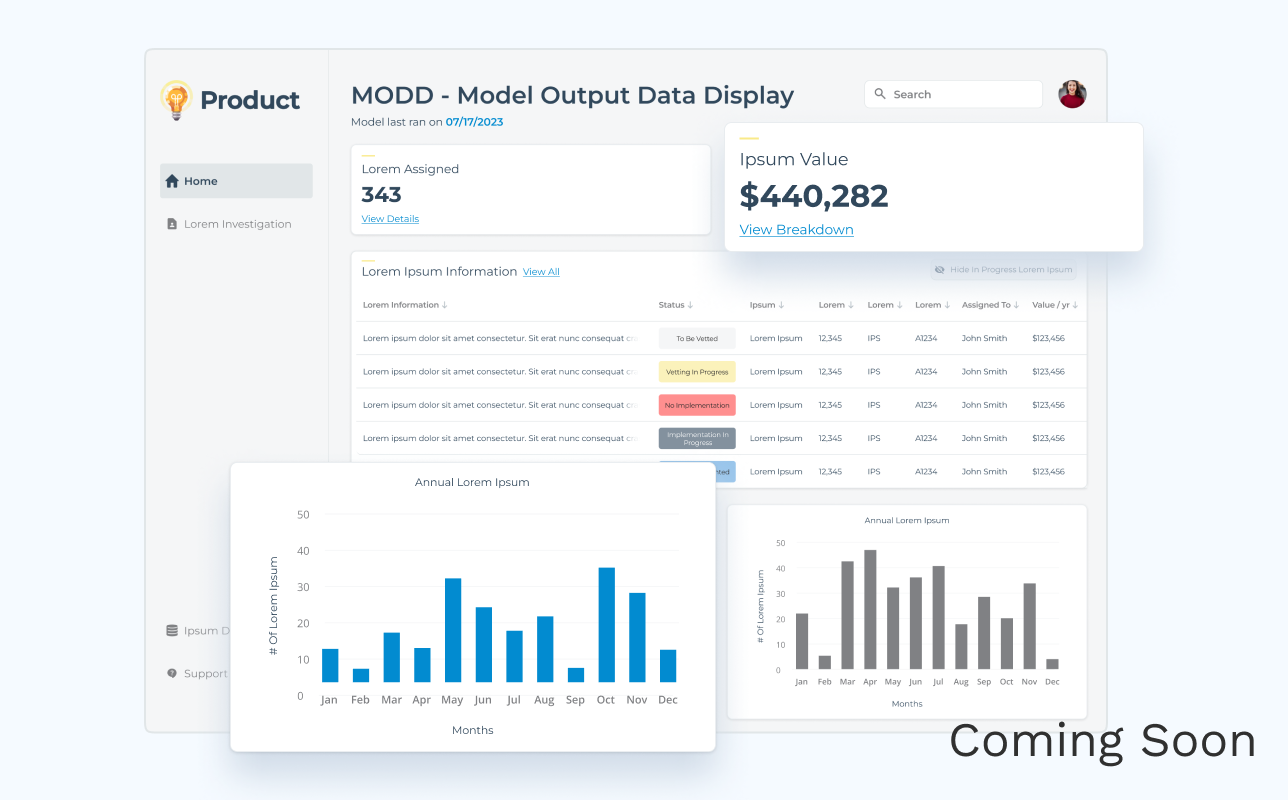
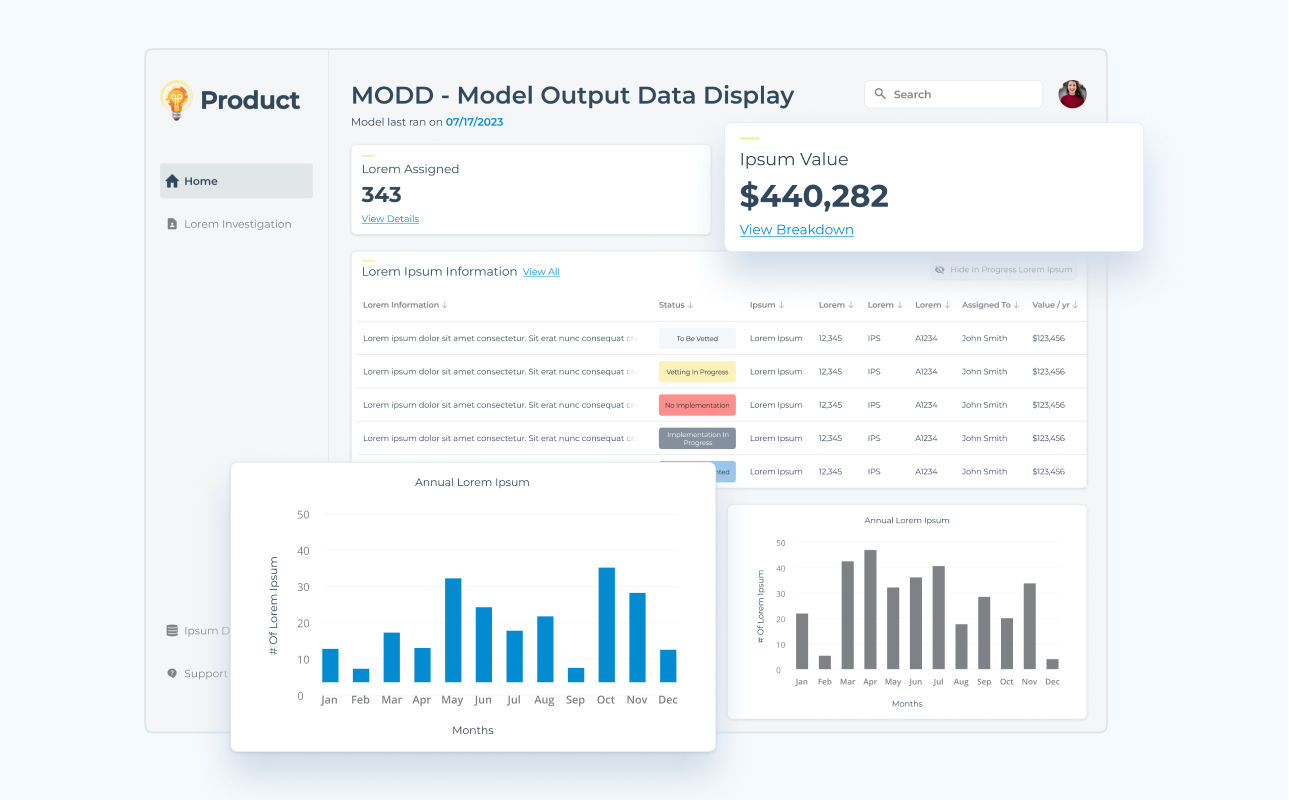
west monroe dental

diff --git a/westmonroe-dental.html b/westmonroe-dental.html
@@ -7,7 +7,7 @@
         <meta name="title" content="Eddy Peng">
         <meta name="description" content="The website portfolio of a product designer, storyteller, and self-proclaimed art historian named Eddy Peng.">
         <meta name="keywords" content="Eddy, Peng, Designer, Userexperience, Productdesign, Eddypeng">
-        <title>Eddy Peng - Ziggurat</title>
+        <title>Eddy Peng - Dental Client</title>
         <link rel="shortcut icon" href="img/universal/favIcon.ico" type="image/x-icon">
 
         <!-- load style sheets -->
@@ -101,20 +101,23 @@
     </header>
     
     <body>
-        <img src="./img/zivolve/zivolveFullCover.png" class="portImg cover fadeIn">
+        <img src="./img/westmonroedental/westmonroedentalFullCover.png" class="portImg cover fadeIn">
         <div class="title fadeIn" id="caseTitle">
-            <h1>Zivolve By Ziggurat</h1>
+            <h1>Dental Service Provider</h1>
         </div>
         <div class="telePoints fadeIn">
             <p>Chapters:</p>
             <ul>
-                <a href="#whyZ"><li>Why Zivolve</li></a>
-                <a href="#process"><li>Process</li></a>
-                <a href="#role"><li>My Role</li></a>
+                <a href="#westmonroe"><li>West Monroe</li></a>
+                <a href="#projectcontext"><li>Project Context</li></a>
+                <a href="#success"><li>Success</li></a>
+                <a href="#team+role"><li>Team + Role</li></a>
+                <a href="#initialidea"><li>Initial Idea</li></a>
                 <a href="#challenge"><li>Challenge</li></a>
-                <a href="#impact"><li>Impact</li></a>
-                <a href="#reflect"><li>Reflection</li></a>
-                <a href="#nda"><li>NDA</li></a>
+                <a href="#newdeliverable"><li>New Deliverable</li></a>
+                <a href="#onedesigner"><li>One Designer</li></a>
+                <a href="#outcome"><li>Outcome</li></a>
+                <a href="#reflections"><li>Reflections</li></a>
             </ul>
         </div>
 
@@ -123,19 +126,19 @@
                 <div>
                     <h1>Context</h1>
                     <ul>
-                        <li>Interaction Designer</li>
+                        <li>Product Designer</li>
                         <li>Internship</li>
-                        <li>Mobile App</li>
+                        <li>Team Of 7</li>
                         <li>NDA</li>
                     </ul>
                 </div>
                 <div>
                     <h2>Overview</h2>
                     <p>
-                        I interned at Ziggurat and worked on their Zivolve investment app. I absorbed unfamiliar financial concepts quickly and followed a design system.
+                        In addition to my energy project at West Monroe, I was on a second project that taught me the impact of auto-layout and remaining flexible for rapid change.
                     </p>
                     <p class="caseLink">
-                        <a class="underlinedLink" href="https://zivolve.com/" target="_blank">www.zivolve.com</a>
+                        <a class="underlinedLink" href="https://westmonroe.com/" target="_blank">westmonroe.com</a>
                     </p>
                 </div>
                 <div>
@@ -147,61 +150,107 @@
                 <div>
                     <h2>Duration</h2>
                     <p>
-                        May - Jul 2022 (3 Months)
+                        July 2023 (4 Weeks)
                     </p>
                 </div>
             </div>
-            <div class="sec" id="whyZ">
-                <h2>Why Zivolve?</h2>
-                <h1>Hedge funds get rich, while 95% of market traders lose $$$.</h1>
+            <div class="sec" id="westmonroe">
+                <h2>West Monroe</h2>
+                <h1>West Monroe is a consulting and digital services firm.</h1>
                 <p>
-                    Due to experience and technology gaps, the playing field heavily favors hedge funds and corporations over individuals. Zivolve levels the playing field by using AI to suggest decisions based on market trends.
+                    In the summer of 2023, I interned at West Monroe, a digital services firm that serves many clients. I specifically worked within the Product Experience & Engineering Lab team. Due to NDA purposes, some screenshots and content have been changed and blurred to keep the client confidential.
                 </p>
-                <img src="./img/zivolve/stockDown.png" class="portImg"/>
+                <img src="./img/westmonroeenergy/westmonroeseattle.png" class="portImg">
             </div>
-            <div class="sec" id="process">
-                <h2>The Process</h2>
-                <h1>Every design task followed a 6-stage process.</h1>
-                <img src="./img/zivolve/process.png" class="portImg"/>
-            </div>
-            <div class="sec" id="role">
-                <h2>My Role</h2>
-                <h1>Designed features and focused on the design system and user flows.</h1>
+            <div class="sec" id="projectcontext">
+                <h2>Project Context</h2>
+                <h1>
+                    A West Monroe team must display data visually for a dental service provider (5,000+ employees).
+                </h1>
                 <p>
-                    I collaborated with a fellow intern on many high-fidelity designs across the product. However, I took a prominent role in ensuring that the screens my co-intern and I create adhere to the design system and preparing the user flows to present during the next team meeting.
+                    A machine learning, healthcare, data science, and technology consultant team has been working on a data model that processes claims more accurately for the client. They need to display their findings in a visually appealing way.
                 </p>
-                <img src="./img/zivolve/userflowSample.png" class="portImg"/>
+                <img src="./img/westmonroedental/dentist.png" class="portImg">
+            </div>
+            <div class="sec" id="success">
+                <h2>Success</h2>
+                <h1>
+                    I must deliver the design before the deadline.
+                </h1>
+                <p>
+                    The design needs to be delivered to the consultants by the end of the 4-week design phase because soon after the deadline, the team will present the work to the client’s VP, CTO, and CFO.
+                </p>
+            </div>
+            <div class="sec" id="team+role">
+                <h2>Team + Role</h2>
+                <h1>
+                    I collaborated with another designer on designs for 5 consultants.
+                </h1>
+                <p>
+                    In addition to the 5 consultants who would serve as our primary stakeholders, I collaborated with a more experienced product designer. We bounced ideas off each other and worked on the designs from start to finish. 
+                </p>
+                <img src="./img/westmonroedental/dentalTeam.png" class="portImg">
+            </div>
+            <div class="sec" id="initialidea">
+                <h2>Initial Idea</h2>
+                <h1>
+                    The team felt an interactive document would enhance their upcoming presentation.
+                </h1>
+                <p>
+                    This document would be in the form of a Figma prototype. The deliverable will allow the user to reveal and manipulate data through thoughtful animations, keeping the viewer engaged. Additionally, the document could also be presentable when printed on paper.
+                </p>
+                <img src="./img/westmonroedental/proposedDeliverable.png" class="portImg">
             </div>
             <div class="sec" id="challenge">
-                <h2>The Challenge</h2>
-                <h1>Rapid concept comprehension.</h1>
+                <h2>Challenge</h2>
+                <h1>
+                    Two weeks into the project, the deliverable pivoted into a prototype. 
+                </h1>
                 <p>
-                    On top of learning essential investment fundamentals and concepts on the fly, I applied design thinking, followed design system guidelines, and ensured the best UI practices for my work. When I had knowledge gaps, I asked for clarification. Not doing so would increase the likelihood of a faulty design.
+                    The consultant team notified my partner and me that plans had changed. It meant we would start from square one with just 2 more weeks before the deadline. Additionally, model data continued to be unavailable. So, placeholder text and guessing had to be used to counter the vagueness.
                 </p>
             </div>
-            <div class="sec" id="impact">
-                <h2>Impact</h2>
-                <h1>Trusted in designing essential features.</h1>
-                <p>
-                    My co-intern and I designed many features essential to the product’s success. Most screens are still in the agile development process and will be live in the upcoming 5 product versions.
+            <div class="sec" id="newdeliverable">
+                <h2>New Deliverable</h2>
+                <h1>
+                    We created a dashboard that conveyed the consultant team’s data model output.
+                </h1>
+                <p class="spaceBelow">
+                    The process involved creating placeholder widgets on the screen and waiting until the consultant team handed me and my partner data from the model. Once we had some data in our hands, we moved elements around and bounced ideas off one another while catering to the consultant team’s recommendations, critiques, and changes in content.
                 </p>
-                <img src="./img/zivolve/results.png" class="portImg"/>
+                <img src="./img/westmonroedental/homeDesign.png" class="portImg spaceBelow">
+                <img src="./img/westmonroedental/ipsumDetails.png" class="portImg spaceBelow">
+                <img src="./img/westmonroedental/modelDetails.png" class="portImg spaceBelow">
             </div>
-            <div class="sec" id="reflect">
+            <div class="sec" id="onedesigner">
+                <h2>One Designer</h2>
+                <h1>
+                    My partner went on PTO, making me the sole designer in implementing and responding to team feedback.
+                </h1>
+                <p>
+                    Nearing the last week, I became the only designer in charge, and for the next 4 days, I adjusted and modified the current design as additional data came in. In the end, I had addressed 25+ critiques and recommendations from the team.
+                </p>
+                <img src="./img/westmonroedental/substitute.png" class="portImg">
+            </div>
+            <div class="sec" id="outcome">
+                <h2>Outcome</h2>
+                <h1>
+                    The designs allowed the consultant team to impress the client, scoring a contract renewal for the firm. 
+                </h1>
+                <p>
+                    We delivered the designs with days to spare for the team to make any last-minute changes to the numbers before their presentation to the client’s Vice President, CFO, and CTO. Between the visuals and the team’s excellent insights, the firm scored a contract renewal. Our designs will live on in the form of a Powerbi dashboard.
+                </p>
+            </div>
+            <div class="sec" id="reflections">
                 <h2>Reflections</h2>
-                <h1>Simplifying complexities is significant in UX.</h1>
+                <h1>
+                    I learned the power of auto-layout in a fast-paced team setting.
+                </h1>
                 <p>
-                    Before starting my internship, I had limited knowledge of asset trading. However, I understood critical concepts by conducting research and receiving guidance from the team.
+                    This project taught me the importance of letting go of my work and adapting to unforeseen changes. In a setting where design is fluid, auto-layout has proven time and again to be instrumental in making design more manageable by allowing me to make changes to the content quickly.
                 </p>
                 <p>
-                    It made me realize that understanding complexities is something few people can fit into their schedules. Making the complex understandable is critical in designing people-focused interfaces.
-                </p>
-            </div>
-            <div class="sec" id="nda">
-                <h2>NDA</h2>
-                <h1>Want to know more? Let’s chat!</h1>
-                <p>
-                    Only screens live in the app are shown (the screens in the thumbnail). To learn more about my experience, feel free to reach out!
+                    I am glad I upskilled myself on Figma’s auto-layout over a weekend early in the project when I realized my experience with the feature was not up to standards and may slow down the project. If I had not done that, I would not have been able to take on my partner’s side of the work for a brief time.
                 </p>
             </div>
         </div>
@@ -209,9 +258,9 @@
     <footer class="projectFooter">
 
         <div class="otherProject">
-            <a href="./westmonroe-dental.html">
-                <h1 class="shrink nextHover">Dental Service Provider ➢
-                    <img src="./img/universal/westmonroedentalRawCover.png"/>
+            <a href="./westmonroe-energy.html">
+                <h1 class="shrink nextHover">Regional Energy Provider ➢
+                    <img src="./img/universal/westmonroeenergyRawCover.png"/>
                 </h1>
             </a>
         </div>

diff --git a/allProjects.html b/allProjects.html
@@ -150,6 +150,20 @@
                 </div>
             </a>
 
+            <!-- west monroe healthcare card -->
+            <a href="./westmonroe-dental.html">
+                <div class="card shrink fadeIn">
+                    <div class="imgContain">
+                        <img src="img/universal/westmonroedentalRawCover.png" alt="west monroe dental cover image">
+                    </div>
+                    <div class="container animated animatedFadeInUp fadeInUp">
+                        <p class="quickFacts">Internship · Product Designer · Jun - Aug 2023</p>
+                        <p class="cardTitle">West Monroe - Dental Client</p>
+                        <p class="cardDes">Adapting to instantaneous pivots while designing a data model output for a dental service client</p>
+                    </div>
+                </div>
+            </a>
+
             <!-- candy card -->
             <a href="./candy.html">
                 <div class="card shrink fadeIn">
@@ -188,22 +202,6 @@
                         <p class="quickFacts">Conceptual · UI Designer · Dec 2022 - Present</p>
                         <p class="cardTitle">User Interface Shots - A Collection</p>
                         <p class="cardDes">Enhancing my UI design and presentation skills by creating visually appealing snapshots</p>
-                    </div>
-                </div>
-            </a>
-
-            <!-- west monroe healthcare card -->
-            <!-- add back in a shrink class and remove comingSoon class and put in correct content after dash -->
-            <!-- remove the "coming soon" text by switching the raw cover image -->
-            <a href="#" class="comingSoon">
-                <div class="card fadeIn">
-                    <div class="imgContain">
-                        <img src="img/universal/westmonroedentalRawCover.png" alt="west monroe dental cover image">
-                    </div>
-                    <div class="container animated animatedFadeInUp fadeInUp">
-                        <p class="quickFacts">Internship · Product Designer · Jun - Jul 2023</p>
-                        <p class="cardTitle">West Monroe - Dental Client</p>
-                        <p class="cardDes">Adapting to instantaneous pivots while designing a data model output for a dental service client</p>
                     </div>
                 </div>
             </a>

diff --git a/westmonroe-energy.html b/westmonroe-energy.html
@@ -7,7 +7,7 @@
         <meta name="title" content="Eddy Peng">
         <meta name="description" content="The website portfolio of a product designer, storyteller, and self-proclaimed art historian named Eddy Peng.">
         <meta name="keywords" content="Eddy, Peng, Designer, Userexperience, Productdesign, Eddypeng">
-        <title>Eddy Peng - Energy Provider</title>
+        <title>Eddy Peng - Energy Client</title>
         <link rel="shortcut icon" href="img/universal/favIcon.ico" type="image/x-icon">
 
         <!-- load style sheets -->
@@ -158,7 +158,7 @@
                 <h2>West Monroe</h2>
                 <h1>West Monroe is a consulting and digital services firm.</h1>
                 <p>
-                    In the summer of 2023, I interned at West Monroe, a digital services firm that serves many clients. I specifically worked within the Product Experience & Engineering Lab team for a utility client. Due to NDA purposes, some screenshots and content have been changed and blurred to keep the client confidential.
+                    In the summer of 2023, I interned at West Monroe, a digital services firm that serves many clients. I specifically worked within the Product Experience & Engineering Lab team. Due to NDA purposes, some screenshots and content have been changed and blurred to keep the client confidential.
                 </p>
                 <img src="./img/westmonroeenergy/westmonroeseattle.png" class="portImg">
             </div>

diff --git a/index.html b/index.html
@@ -159,15 +159,13 @@
             </a>
 
             <!-- west monroe healthcare card -->
-            <!-- add back in a shrink class and remove comingSoon class and put in correct content after dash -->
-            <!-- remove the "coming soon" text by switching the raw cover image -->
-            <a href="#" class="comingSoon">
-                <div class="card fadeIn">
+            <a href="./westmonroe-dental.html">
+                <div class="card shrink fadeIn">
                     <div class="imgContain">
                         <img src="img/universal/westmonroedentalRawCover.png" alt="west monroe dental cover image">
                     </div>
                     <div class="container animated animatedFadeInUp fadeInUp">
-                        <p class="quickFacts">Internship · Product Designer · Jun - Jul 2023</p>
+                        <p class="quickFacts">Internship · Product Designer · Jun - Aug 2023</p>
                         <p class="cardTitle">West Monroe - Dental Client</p>
                         <p class="cardDes">Adapting to instantaneous pivots while designing a data model output for a dental service client</p>
                     </div>
